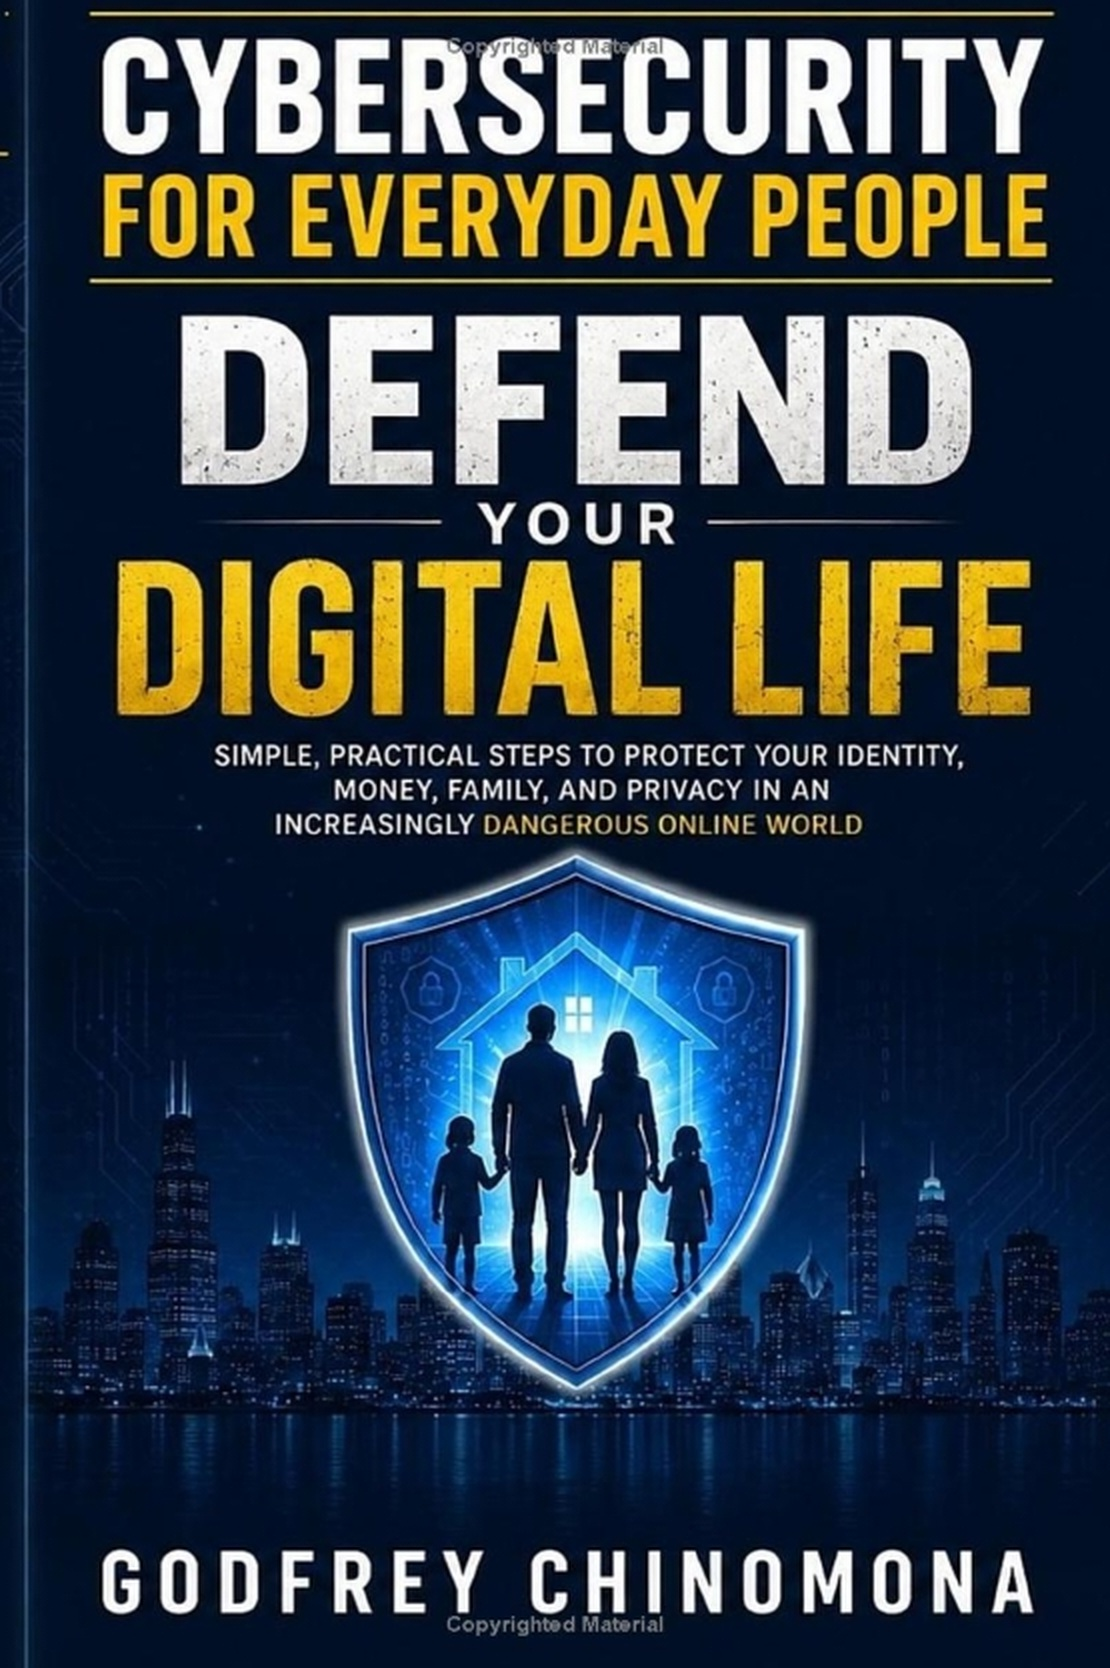
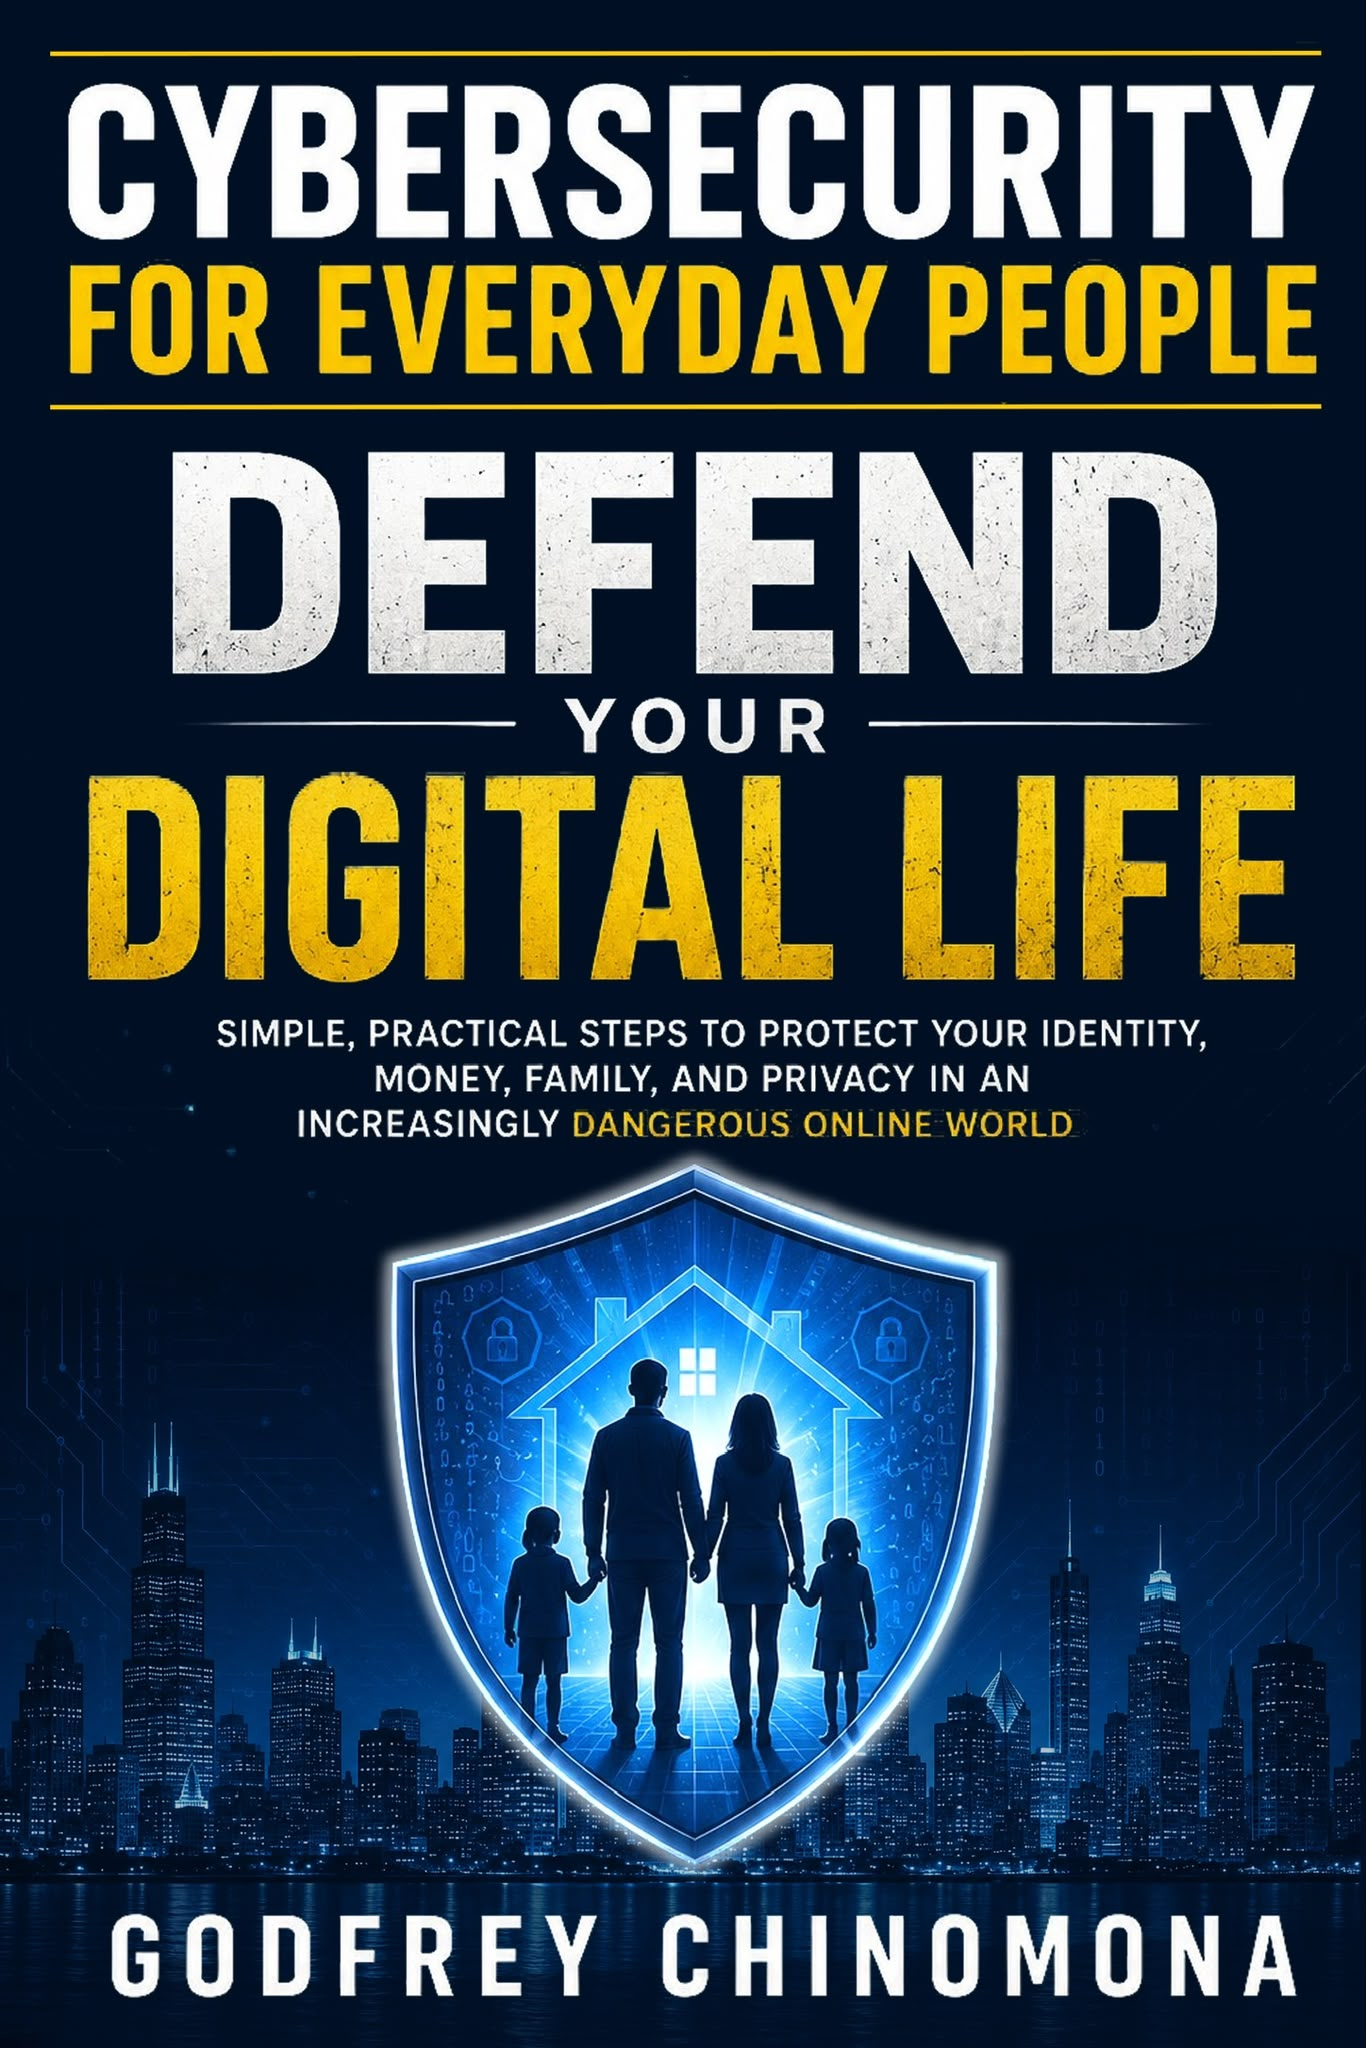
Real cover and author portrait; credit Acextic as presenting sponsor
Both videos use the original cover file. The church master shows the
author portrait in shot 14 and 'Presented by' Acextic in shot 01 and on
the purchase slate; the social cut's end card does the same. Also fixes
the review-pass layout issues: door lock clearance, tablet tiles, the
shot 07 title wrap, the pause icon and the purchase slate's line wraps.

Claude-Session: https://claude.ai/code/session_01PcgwNBfcmuzEBUtVdBHNSg

diff --git a/src/church/scenes-story.tsx b/src/church/scenes-story.tsx
@@ -1,5 +1,5 @@
 import React from 'react';
-import {AbsoluteFill, OffthreadVideo, staticFile} from 'remotion';
+import {AbsoluteFill, Img, OffthreadVideo, staticFile} from 'remotion';
 import {clamp01, easeInOut, easeOut, lerp, prog, sp} from '../lib';
 import {Shield} from '../book/parts';
 import {Bubble, CheckIcon, display, Gold, Lines, LockIcon, Person, Phone, rise, WarnIcon} from './ui';
@@ -57,6 +57,19 @@ export const S01: React.FC<SceneProps> = ({t}) => {
         size={66}
         style={{left: 1920 / 2 + clipW / 2 + 70, top: 380}}
       />
+      <div
+        style={{
+          position: 'absolute',
+          left: 1920 / 2 + clipW / 2 + 70,
+          top: 640,
+          ...rise(prog(t, p.presented, p.presented + 1, easeOut), 16),
+        }}
+      >
+        <div style={{fontFamily: KF.mono, fontSize: 20, letterSpacing: '0.3em', color: K.muted, marginBottom: 16}}>
+          PRESENTED BY
+        </div>
+        <Img src={staticFile(ASSETS.logo)} style={{height: 50, width: 50 * ASSETS.logoRatio}} />
+      </div>
     </AbsoluteFill>
   );
 };
@@ -71,7 +84,7 @@ export const S02: React.FC<SceneProps> = ({t, frame}) => {
   const match = prog(t, p.match, p.match + 1.4, easeInOut);
   const unlock = prog(t, p.phoneUnlock, p.phoneUnlock + 0.8, easeInOut);
   const cx = 560;
-  const cy = 470;
+  const cy = 510;
   return (
     <AbsoluteFill>
       <div style={{opacity: (1 - match) * clamp01(doorIn * 1.5), transform: `scale(${lerp(1, 0.86, match)})`}}>
@@ -107,7 +120,7 @@ export const S02: React.FC<SceneProps> = ({t, frame}) => {
           <rect x={70} y={41} width={12} height={22} rx={3} fill={K.goldHi} />
           <circle cx={150} cy={35} r={32} fill="none" stroke={K.goldHi} strokeWidth={12} />
         </svg>
-        <div style={{position: 'absolute', left: cx - 40, top: 70, ...rise(doorIn)}}>
+        <div style={{position: 'absolute', left: cx - 40, top: 54, ...rise(doorIn)}}>
           <LockIcon size={80} open={1 - bolt} />
         </div>
       </div>
@@ -375,8 +388,10 @@ const Tablet: React.FC<{k: number; children?: React.ReactNode}> = ({k, children}
         borderRadius: 26,
         overflow: 'hidden',
         background: 'linear-gradient(180deg, #13244D 0%, #0A1430 100%)',
-        display: 'grid',
-        gridTemplateColumns: 'repeat(5, 1fr)',
+        display: 'flex',
+        flexWrap: 'wrap',
+        alignContent: 'center',
+        justifyContent: 'center',
         gap: 26,
         padding: 40,
         boxSizing: 'border-box',
@@ -400,7 +415,8 @@ export const S05: React.FC<SceneProps> = ({t, frame}) => {
           <div
             key={i}
             style={{
-              aspectRatio: '1',
+              width: 96,
+              height: 96,
               borderRadius: 22,
               background: ['#5E7CC9', K.gold, K.blue, '#7FA7E8', '#2C4A8C'][i % 5],
               opacity: 0.8 * clamp01(tab * 2 - i * 0.08),
@@ -578,10 +594,10 @@ export const S07: React.FC<SceneProps> = ({t, frame}) => {
       })}
       <Lines
         t={t}
-        at={[p.title, p.title + 0.35]}
-        lines={['You do not need to be', <>an <Gold key="g">IT expert.</Gold></>]}
-        size={92}
-        style={{left: TX, top: 360}}
+        at={[p.title, p.title + 0.3, p.title + 0.6]}
+        lines={['You do not', 'need to be', <>an <Gold key="g">IT expert.</Gold></>]}
+        size={96}
+        style={{left: TX, top: 300}}
       />
     </AbsoluteFill>
   );

diff --git a/src/church/scenes-book.tsx b/src/church/scenes-book.tsx
@@ -177,11 +177,11 @@ export const S15: React.FC<SceneProps> = ({t, frame}) => {
       <Cover cx={330} cy={470} w={400} k={cover} t={t} />
       <div style={{position: 'absolute', left: center - 440, width: 880, top: 120, textAlign: 'center'}}>
         <div style={{...display(40, K.dim), ...rise(L[0], 16)}}>Cybersecurity for Everyday People™</div>
-        <div style={{...display(84, K.gold), marginTop: 6, ...rise(L[0], 16)}}>Defend Your Digital Life</div>
+        <div style={{...display(66, K.gold), marginTop: 6, ...rise(L[0], 16)}}>Defend Your Digital Life</div>
         <div style={{fontFamily: KF.sans, fontSize: 30, color: K.dim, marginTop: 18, ...rise(L[1], 16)}}>
           Protect Yourself. Protect Your Family. Protect Your Future.
         </div>
-        <div style={{...display(112), marginTop: 46, ...rise(L[2], 24)}}>Get your copy today</div>
+        <div style={{...display(88), marginTop: 46, ...rise(L[2], 24)}}>Get your copy today</div>
         <div style={{fontFamily: KF.sans, fontWeight: 600, fontSize: 48, color: K.white, marginTop: 14, ...rise(L[3], 20)}}>
           Available here after the service
         </div>
@@ -213,7 +213,7 @@ export const S15: React.FC<SceneProps> = ({t, frame}) => {
           transform: `scale(${0.85 + 0.15 * qr})`,
         }}
       >
-        <div style={{fontFamily: KF.mono, fontWeight: 600, fontSize: 22, letterSpacing: '0.18em', color: K.gold, marginBottom: 18}}>
+        <div style={{fontFamily: KF.mono, fontWeight: 600, fontSize: 18, letterSpacing: '0.16em', color: K.gold, marginBottom: 18}}>
           ALSO AVAILABLE ON AMAZON
         </div>
         <div style={{background: '#fff', borderRadius: 20, padding: 12}}>
@@ -236,8 +236,8 @@ export const S15: React.FC<SceneProps> = ({t, frame}) => {
       >
         <span style={{fontFamily: KF.sans, fontWeight: 600, fontSize: 34, color: K.white}}>Godfrey Chinomona</span>
         <span style={{width: 2, height: 40, background: K.line}} />
+        <span style={{fontFamily: KF.mono, fontSize: 22, letterSpacing: '0.24em', color: K.muted}}>PRESENTED BY</span>
         <Img src={staticFile(ASSETS.logo)} style={{height: 46, width: 46 * ASSETS.logoRatio}} />
-        <span style={{fontFamily: KF.sans, fontSize: 30, color: K.dim}}>Acextic Corporation</span>
       </div>
     </AbsoluteFill>
   );

diff --git a/src/book/BookLaunch.tsx b/src/book/BookLaunch.tsx
@@ -15,7 +15,7 @@ const ALERT_TOP = [400, 630, 860];
 
 const ITEMS = ['identity.', 'money.', 'family.', 'privacy.'];
 
-const COVER_RATIO = 834 / 555;
+const COVER_RATIO = 2048 / 1366;
 const COVER_HERO = {cx: BW / 2, cy: 1000, w: 640};
 const COVER_END = {cx: BW / 2, cy: 270 + (470 * COVER_RATIO) / 2, w: 470};
 
@@ -268,18 +268,11 @@ export const BookLaunch: React.FC = () => {
         src={staticFile(LOGO.src)}
         style={{position: 'absolute', right: 70, top: 200, height: 36, width: 36 * LOGO.ratio, opacity: bug}}
       />
-      <Centered top={1446} style={{opacity: brand}}>
-        <div
-          style={{
-            width: 96 * brand,
-            height: 2,
-            margin: '0 auto',
-            borderRadius: 1,
-            background: B.line,
-          }}
-        />
+      <Centered top={1440} style={{opacity: brand}}>
+        <div style={{width: 96 * brand, height: 2, margin: '0 auto 26px', borderRadius: 1, background: B.line}} />
+        <div style={{fontFamily: BF.mono, fontSize: 22, letterSpacing: '0.3em', color: B.muted}}>PRESENTED BY</div>
       </Centered>
-      <Centered top={1478} style={{opacity: brand, transform: `translateY(${(1 - brand) * 20}px)`}}>
+      <Centered top={1504} style={{opacity: brand, transform: `translateY(${(1 - brand) * 20}px)`}}>
         <Img src={staticFile(LOGO.src)} style={{height: 56, width: 56 * LOGO.ratio, display: 'inline-block'}} />
       </Centered>
 

diff --git a/src/church/scenes-defense.tsx b/src/church/scenes-defense.tsx
@@ -118,16 +118,16 @@ export const S08: React.FC<SceneProps> = ({t, frame}) => {
       <div
         style={{
           position: 'absolute',
-          left: 700,
+          left: 800,
           top: 420,
           display: 'flex',
-          gap: 12,
+          gap: 14,
           opacity: clamp01(stop * 2),
           transform: `scale(${stop})`,
         }}
       >
-        <div style={{width: 18, height: 64, borderRadius: 6, background: K.gold}} />
-        <div style={{width: 18, height: 64, borderRadius: 6, background: K.gold}} />
+        <div style={{width: 24, height: 84, borderRadius: 7, background: K.gold}} />
+        <div style={{width: 24, height: 84, borderRadius: 7, background: K.gold}} />
       </div>
       <Heading n={1} t={t} frame={frame} badge={p.badge} title={p.title} />
     </AbsoluteFill>

diff --git a/src/church/theme.ts b/src/church/theme.ts
@@ -35,12 +35,11 @@ export const ASSETS = {
   intro: 'church/intro.mp4',
   introBg: 'church/intro-bg.mp4',
   cover: 'book/cover.jpg',
-  coverRatio: 834 / 555,
+  coverRatio: 2048 / 1366,
   logo: 'book/acextic-white.png',
   logoRatio: 1561 / 295,
   qr: 'church/amazon-qr.jpg',
-  // Set to a file in public/ (e.g. 'church/author.jpg') once the real portrait arrives.
-  author: null as string | null,
+  author: 'church/author.jpg' as string | null,
 };
 
 export const CHURCH_FONTS = [

diff --git a/examples/03-church-master/README.md b/examples/03-church-master/README.md
@@ -15,8 +15,8 @@ Built from *Cybersecurity Book Launch: 5-Minute Video Production Plan* (Godfrey 
 | 07 | 2:05–2:25 | Three generations each get a check; YOU DO NOT NEED TO BE AN IT EXPERT |
 | 08–12 | 2:25–3:50 | The five numbered defenses, with a progress rail; shot 12 ends on all five together |
 | 13 | 3:50–4:15 | The cover, slow reveal; CYBERSECURITY FOR EVERYDAY PEOPLE™ / DEFEND YOUR DIGITAL LIFE |
-| 14 | 4:15–4:40 | GODFREY CHINOMONA / AUTHOR & TECHNOLOGY PROFESSIONAL |
-| 15 | 4:40–5:00 | Purchase slate (the plan's exact copy), cover, Amazon QR, Acextic logo; held 15 s |
+| 14 | 4:15–4:40 | Author portrait; GODFREY CHINOMONA / AUTHOR & TECHNOLOGY PROFESSIONAL |
+| 15 | 4:40–5:00 | Purchase slate (the plan's copy), cover, Amazon QR, "Presented by" Acextic; held 15 s |
 
 The narration is burned in as captions, timed across each shot by sentence length. When a recorded voiceover arrives, mux it over `public/church.wav`; the music is mastered quieter than the social cut so a voice can sit on top.
 
@@ -35,10 +35,11 @@ ffmpeg -i out/book-silent.mp4 -vf "fps=30,scale=1920:-2,crop=1920:1080,boxblur=3
 ffmpeg -i out/book-silent.mp4 -vf "fps=30,scale=608:1080" -an public/church/intro.mp4
 ```
 
-## Open items from the plan
+## Assets
 
-- **Cover:** still the crop from the Amazon preview screenshot (soft, with a "Copyrighted Material" watermark). Replace `public/book/cover.jpg` with the original file.
-- **Author portrait:** not supplied, so shot 14 keeps the cover beside the name. Drop the photo in `public/church/author.jpg` and set `ASSETS.author` in `src/church/theme.ts`.
-- **Voiceover:** not recorded; captions carry the narration.
-- **QR code:** supplied; it decodes to `https://www.amazon.com/dp/B0HF8W6QNV`. Scan-test it on a phone before showing it.
+- **Cover:** the original front-cover file (`public/book/cover.jpg`), also used in the social cut.
+- **Author portrait:** `public/church/author.jpg`, shown in shot 14.
+- **Acextic:** sponsor credit, "Presented by" plus the logo, in shot 01 (from 0:04) and on the purchase slate; small corner mark in between.
+- **QR code:** supplied and scan-tested; it opens `https://www.amazon.com/dp/B0HF8W6QNV`.
+- **Voiceover:** none; the narration is burned in as captions.
 - **Music:** generated by the sfx engine, so it's original and needs no licence.

diff --git a/examples/02-book-launch/README.md b/examples/02-book-launch/README.md
@@ -20,7 +20,7 @@ Plus a screenshot of the Amazon "Look inside" preview, which supplied the cover,
 | Defence | 4.2–8.7 s | A shield draws on and stamps every alert BLOCKED; *Your identity. Your money. Your family. Your privacy.* |
 | Hero | 8.8–11.3 s | The shield swells to fill the frame and opens onto the cover |
 | System | 11.3–14 s | Cover docks; *The SHIELD System — for personal cybersecurity* |
-| End card | 14.4–19.2 s | *Available now* · Kindle & Paperback on Amazon · by Godfrey Chinomona · Acextic logo from 16.3 s |
+| End card | 14.4–19.2 s | *Available now* · Kindle & Paperback on Amazon · by Godfrey Chinomona · "Presented by" Acextic from 16.3 s |
 
 The palette (navy, electric blue, gold) and the condensed display type (Oswald) come from the cover. The Acextic logo (`public/book/acextic-white.png`, keyed from the colour logo) sits top-right at 60% opacity until the end card takes it over.
 
@@ -31,7 +31,7 @@ npm run book:build     # sound + render + mux → out/book-launch.mp4
 npx remotion still BookLaunch out/book-poster.png --frame=1134   # end-card still for feed posts
 ```
 
-`public/book/cover.jpg` is cropped from a screenshot of the Amazon preview, so it's soft and carries Amazon's "Copyrighted Material" watermark. Replace it with the original cover file (same 2:3 ratio) before posting.
+`public/book/cover.jpg` is the original front-cover file.
 
 ## Post copy
 
